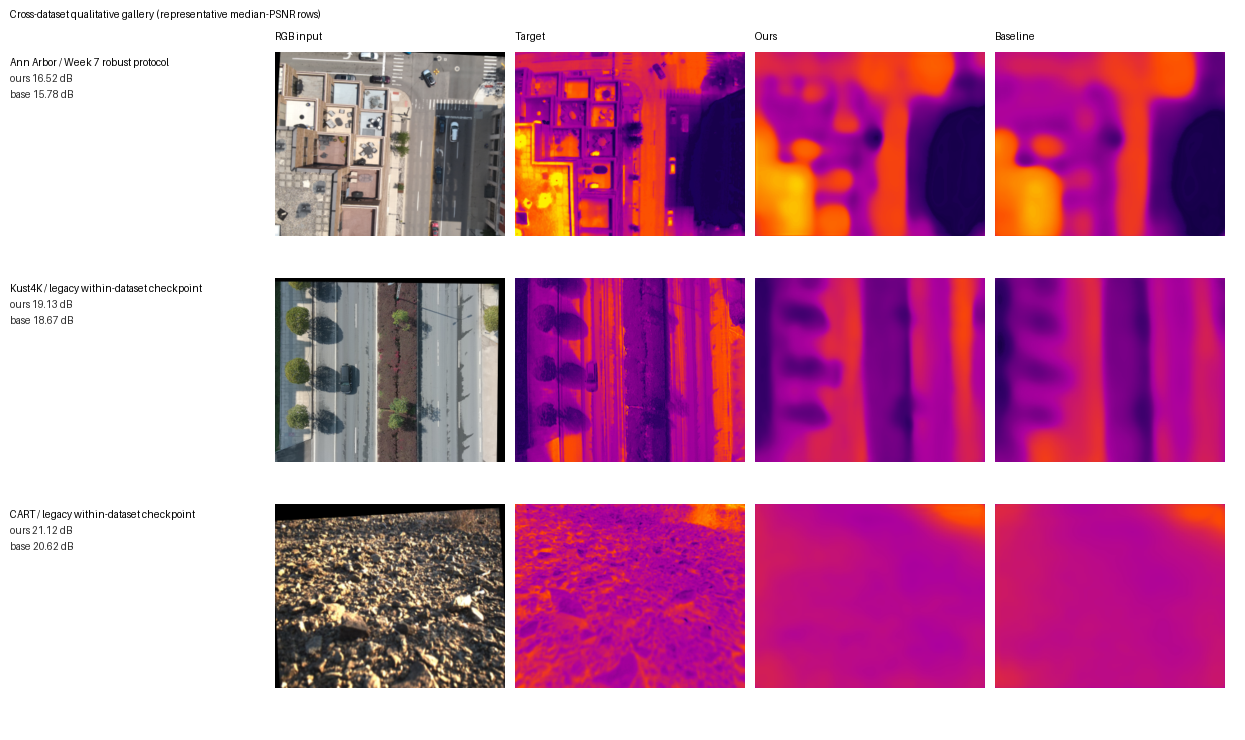
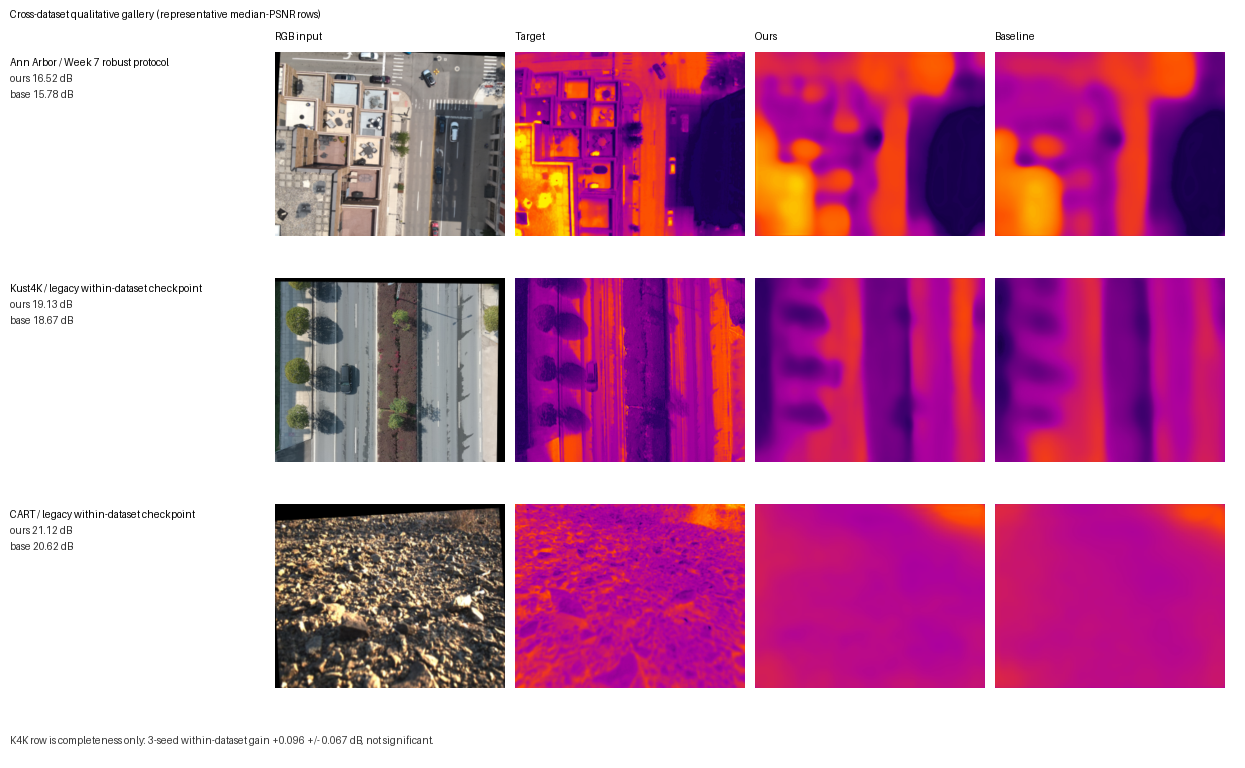
Fix week 8 figure framing and start week 9 draft

diff --git a/week8_make_final_figures.py b/week8_make_final_figures.py
@@ -185,13 +185,39 @@ def score_dataset(
     return rows
 
 
[email redacted]_grad()
+def score_paired_delta(
+    ours_model: torch.nn.Module,
+    base_model: torch.nn.Module,
+    ds,
+    device: torch.device,
+    res: int,
+    max_items: int,
+) -> list[dict]:
+    limit = min(len(ds), max_items or len(ds))
+    rows = []
+    for idx in range(limit):
+        ours = predict_one(ours_model, ds, idx, device, res)
+        base = predict_one(base_model, ds, idx, device, res)
+        rows.append(
+            {
+                "idx": idx,
+                "name": ours["name"],
+                "ours_psnr": ours["psnr"],
+                "base_psnr": base["psnr"],
+                "delta_psnr": ours["psnr"] - base["psnr"],
+            }
+        )
+    return rows
+
+
 def choose_median_psnr(scored: list[dict]) -> int:
     scored = sorted(scored, key=lambda r: r["psnr"])
     return int(scored[len(scored) // 2]["idx"])
 
 
-def choose_failure_indices(scored: list[dict], n: int) -> list[int]:
-    return [int(r["idx"]) for r in sorted(scored, key=lambda r: r["psnr"])[:n]]
+def choose_failure_indices(scored_delta: list[dict], n: int) -> list[int]:
+    return [int(r["idx"]) for r in sorted(scored_delta, key=lambda r: r["delta_psnr"])[:n]]
 
 
 def draw_labeled_grid(
@@ -202,13 +228,19 @@ def draw_labeled_grid(
     row_labels: list[str],
     tile_w: int,
     left_w: int = 210,
+    footnote: str | None = None,
 ) -> None:
     h, w = rows[0]["target"].shape
     tile_h = max(1, round(tile_w * h / w))
     pad = 10
     header_h = 52
     row_h = tile_h + 42
-    canvas = Image.new("RGB", (left_w + len(columns) * (tile_w + pad) + pad, header_h + len(rows) * row_h + pad), "white")
+    foot_h = 28 if footnote else 0
+    canvas = Image.new(
+        "RGB",
+        (left_w + len(columns) * (tile_w + pad) + pad, header_h + len(rows) * row_h + pad + foot_h),
+        "white",
+    )
     draw = ImageDraw.Draw(canvas)
     draw.text((pad, 8), title, fill=(0, 0, 0))
     for col, (label, _key) in enumerate(columns):
@@ -221,6 +253,8 @@ def draw_labeled_grid(
             draw.text((pad, y + 36), f"base {row['baseline_psnr']:.2f} dB", fill=(45, 45, 45))
         for col, (_label, key) in enumerate(columns):
             paste_fit(canvas, row[key], (left_w + col * (tile_w + pad), y, left_w + col * (tile_w + pad) + tile_w, y + tile_h))
+    if footnote:
+        draw.text((pad, header_h + len(rows) * row_h + 4), footnote, fill=(55, 55, 55))
     save_canvas(canvas, path)
 
 
@@ -327,21 +361,23 @@ def main() -> None:
         args.tile_width,
     )
 
-    scored_aa = score_dataset(aa_ours, aa_ds, device, args.res, args.max_score_items)
-    failure_indices = choose_failure_indices(scored_aa, 2)
+    scored_aa_delta = score_paired_delta(aa_ours, aa_base, aa_ds, device, args.res, args.max_score_items)
+    failure_indices = choose_failure_indices(scored_aa_delta, 2)
     failure_rows = []
     failure_labels = []
     for idx in failure_indices:
         ours = predict_one(aa_ours, aa_ds, idx, device, args.res)
         base = predict_one(aa_base, aa_ds, idx, device, args.res)
         row = {**ours, **row_images(ours), "baseline_img": Image.fromarray(colorize_scalar(base["pred"])), "baseline_psnr": base["psnr"]}
+        delta = ours["psnr"] - base["psnr"]
+        row["ours_delta_psnr"] = delta
         failure_rows.append(row)
-        failure_labels.append(f"{ours['name']} / low PSNR")
-        metrics.append(metric_record("failure", "ann_arbor", "ours", 0.3, ours, "selected among two lowest validation PSNR rows"))
+        failure_labels.append(f"{ours['name']} / delta {delta:+.2f} dB")
+        metrics.append(metric_record("failure", "ann_arbor", "ours", 0.3, ours, "selected by most negative paired PSNR delta"))
         metrics.append(metric_record("failure", "ann_arbor", "baseline", 0.3, base, "same sample"))
     draw_labeled_grid(
         out_dir / "failure_cases_ann_arbor_seed42.png",
-        "Failure cases: lowest Ann Arbor validation PSNR rows",
+        "Failure cases: Ann Arbor rows where ours underperforms baseline most",
         failure_rows,
         [
             ("RGB input", "rgb_img"),
@@ -421,6 +457,7 @@ def main() -> None:
         cross_labels,
         args.tile_width,
         left_w=275,
+        footnote="K4K row is completeness only: 3-seed within-dataset gain +0.096 +/- 0.067 dB, not significant.",
     )
 
     write_metrics(out_dir / "week8_final_figure_metrics.csv", metrics)

diff --git a/WEEK9_DRAFT_SCAFFOLD.md b/WEEK9_DRAFT_SCAFFOLD.md
@@ -1,0 +1,149 @@
+# Week 9 Paper Draft Scaffold
+
+This is the starting scaffold for draft 1. It intentionally narrows the paper
+around claims that survived the Week 7/8 audits.
+
+## Working Title
+
+Synthetic Warp Supervision for Robust Aerial RGB-to-Thermal Translation
+
+## Core Claim
+
+A lightweight RGB-only affine registration head, trained with synthetic
+warp-recovery supervision, gives a small but repeatable robustness gain for
+aerial RGB-to-thermal translation under controlled synthetic misalignment.
+
+This is not a general unsupervised-registration claim and not a broad
+cross-dataset generalization claim.
+
+## Abstract Skeleton
+
+RGB-to-thermal translation from aerial imagery is sensitive to camera alignment,
+target representation, and dataset conventions. We study this sensitivity on an
+Ann Arbor UAV RGB/thermal dataset and two external RGB-TIR datasets, Kust4K and
+CART. Starting from a ConvNeXt-tiny U-Net translator, we add a lightweight
+RGB-only affine registration head trained with synthetic warp-recovery
+supervision. After ablations, the strongest variant decouples uncertainty from
+the reconstruction loss and treats uncertainty maps as diagnostics. On Ann
+Arbor under amplified synthetic misalignment, the method improves over a matched
+no-registration ConvNeXt baseline by `+0.571 +/- 0.157 dB` across three seeds
+and outperforms a Swin-T U-Net baseline by `+0.215 +/- 0.113 dB`. External
+results are mixed: Kust4K shows no statistically meaningful within-dataset gain,
+while CART gains are sensitive to loss balance. These findings support a
+conservative conclusion: synthetic warp supervision can improve robustness on
+the source dataset, but target normalization and dataset-specific alignment
+limit cross-dataset claims.
+
+## Contributions
+
+1. A reproducible multi-dataset evaluation harness for aerial RGB-to-thermal
+   translation with Ann Arbor, Kust4K, and CART.
+2. A synthetic misalignment diagnostic showing that Ann Arbor is alignment
+   sensitive while Kust4K/CART are weaker and target-representation-confounded.
+3. A lightweight input-space affine registration module with direct RGB
+   warp-recovery supervision.
+4. A controlled ablation showing that uncertainty-weighted reconstruction hurts
+   in this protocol, while uncertainty-decoupled affine registration gives a
+   repeatable but modest gain.
+5. Qualitative figures showing both useful behavior and failure modes, including
+   cases where the method underperforms the no-registration baseline.
+
+## Section Plan
+
+### 1. Introduction
+
+- Motivate aerial RGB-to-thermal translation for urban heat, infrastructure, and
+  UAV sensing.
+- State the practical issue: RGB/TIR pairs are often imperfectly aligned, and
+  naive translation models can either ignore RGB detail or overfit dataset
+  target conventions.
+- Frame the paper as an empirical + method study, not as a universal
+  registration solution.
+- End with the conservative contributions above.
+
+### 2. Related Work
+
+- Paired RGB-to-thermal / RGB-TIR translation.
+- Aerial and UAV multimodal datasets.
+- Cross-modal registration and spatial transformer-style alignment.
+- Uncertainty in image translation, with care to note that our uncertainty
+  branch is diagnostic after ablation.
+
+### 3. Datasets and Target Representation
+
+- Ann Arbor: local registered RGB/scalar thermal target.
+- Kust4K: official splits, broken-sample exclusions, qualitative-only caution
+  for registration benefit.
+- CART/Caltech: labeled paired subset, target normalization caveat.
+- Explain `raw`, `robust`, and `histmatch`; justify robust for the locked Week
+  5-8 protocol.
+
+### 4. Method
+
+- Baseline: ConvNeXt-tiny + U-Net translator.
+- Synthetic misalignment generation: translation/rotation/scale, thermal target
+  stays fixed.
+- Registration module: RGB-only affine predictor, input-space warp, identity
+  initialization.
+- Training losses: reconstruction, SSIM, edge, affine regularizer, RGB
+  warp-recovery supervision.
+- Final design choice: uncertainty maps are generated/logged but not used to
+  weight reconstruction in the primary model.
+
+### 5. Experiments
+
+- Week 2/2.5 diagnostics: why the initial no-go was not trusted; Ann Arbor
+  control establishes alignment sensitivity.
+- Week 4/5 registration controls: supervised warp signal is necessary; external
+  results are limited.
+- Week 6/7 baselines and ablations: ConvNeXt no-reg, Swin-T no-reg, Swin-T
+  affine, uncertainty on/off, loss ablations, severity diagnostics.
+- Week 8 qualitative figures: hero, multi-sigma recovery, failure cases,
+  cross-dataset qualitative context.
+
+### 6. Discussion and Limitations
+
+- Gain is real but modest.
+- Synthetic warp supervision is not real-world registration ground truth.
+- Kust4K does not support a positive registration-benefit claim across seeds.
+- CART gains are partly loss-balance-sensitive.
+- Qualitative figures show smoothing of high-frequency thermal structure.
+- Uncertainty maps are not calibrated enough to drive reconstruction weighting.
+
+## Figure and Table Map
+
+| Slot | Artifact | Status |
+|---|---|---|
+| Figure 1 | Hero Ann Arbor scene | `figures/week8/hero_ann_arbor_seed42.png` |
+| Figure 2 | Method diagram | TODO in Week 9/11 |
+| Figure 3 | Multi-sigma recovery | `figures/week8/misalignment_recovery_multisigma_seed42.png` |
+| Figure 4 | Failure cases | `figures/week8/failure_cases_ann_arbor_seed42.png` |
+| Appendix Fig. A | Candidate grid | `figures/week8/ann_arbor_candidate_grid_seed42.png` |
+| Appendix Fig. B | Cross-dataset qualitative gallery | `figures/week8/cross_dataset_gallery_seed42.png` |
+| Table 1 | Dataset counts and normalization | TODO |
+| Table 2 | Baselines: ConvNeXt, Swin-T, pix2pix, CycleGAN | use Week 6/7 CSVs |
+| Table 3 | Main ablation: no-reg vs affine + uncertainty vs uncertainty-decoupled affine | use Week 7 CSV |
+| Table 4 | External/cross-dataset results | use Week 5, with Kust4K caveat |
+
+## Claim Guardrails
+
+- Do not claim Kust4K registration benefit. The three-seed within-dataset gain
+  is `+0.096 +/- 0.067 dB`, consistent with no effect.
+- Do not claim the hero `+0.93 dB` is typical. The main method gain is
+  `+0.571 +/- 0.157 dB` across three seeds.
+- Do not describe the final method as deterministic. Use
+  "uncertainty-decoupled" or "unweighted-L1 primary variant."
+- Do not claim uncertainty helps reconstruction. It hurt in the locked
+  protocol and should be described as diagnostic only.
+- Do not report the cross-dataset gallery as a unified quantitative protocol.
+  It mixes the locked Ann Arbor checkpoint with older within-dataset external
+  checkpoints.
+- Do not use the single-seed severity curve as a main statistical claim.
+
+## Immediate Week 9 Tasks
+
+- Convert this scaffold into a full prose draft.
+- Build the dataset-count and main-ablation tables from committed CSVs.
+- Draft figure captions with the guardrails above.
+- Create a simple method diagram.
+- Run a no-overclaiming pass on the abstract before sending to collaborators.

diff --git a/WEEK8_QUALITATIVE_RESULT.md b/WEEK8_QUALITATIVE_RESULT.md
@@ -13,7 +13,7 @@ figures are committed under `figures/week8/` and all PNGs were regenerated with
 | Hero candidate | `figures/week8/hero_ann_arbor_seed42.png` | Single scene with road, trees, building edge, hot roof, prediction, uncertainty, and error. |
 | Multi-sigma recovery | `figures/week8/misalignment_recovery_multisigma_seed42.png` | Same Ann Arbor scene at sigma 0.0, 0.2, and 0.5 with baseline vs ours. |
 | Cross-dataset gallery | `figures/week8/cross_dataset_gallery_seed42.png` | Ann Arbor, Kust4K, and CART representative rows with target, ours, and baseline. |
-| Failure cases | `figures/week8/failure_cases_ann_arbor_seed42.png` | Two lowest-PSNR Ann Arbor validation samples. |
+| Failure cases | `figures/week8/failure_cases_ann_arbor_seed42.png` | Ann Arbor samples where ours underperforms the no-registration baseline most. |
 
 Metrics for the final figures are in
 `figures/week8/week8_final_figure_metrics.csv`.
@@ -23,16 +23,24 @@ Metrics for the final figures are in
 - The hero scene is a reasonable paper candidate: ours improves over
   ConvNeXt no-registration on that sample (`16.94 dB` vs `16.01 dB`) and shows
   both useful structure and clear smoothing failure.
+- Paper-draft guardrail: the hero's `+0.93 dB` gain is an illustrative upper
+  tail example, not the typical effect size. Captions must point readers to the
+  three-seed mean gain (`+0.571 +/- 0.157 dB`) and avoid implying a `~1 dB`
+  average improvement.
 - The multi-sigma recovery figure is honest. On the selected scene, ours helps
   at sigma `0.0` and `0.2`, but not at sigma `0.5` (`13.84 dB` ours vs
   `13.96 dB` baseline). Do not use this as a monotonic success figure.
-- The failure cases show the dominant visual limitation: the model smooths
-  high-frequency thermal detail around roofs, vehicles, and hard building
-  edges. The uncertainty maps do not fully localize those errors.
+- The failure cases now target method-specific underperformance: samples where
+  ours has the most negative paired PSNR delta relative to the no-registration
+  baseline. This is distinct from the earlier "hard scenes for both models"
+  selection.
 - The cross-dataset gallery should be framed as qualitative context only.
   Ann Arbor uses the locked Week 7 robust uncertainty-decoupled protocol, while
   Kust4K and CART rows use older within-dataset external checkpoints. They are
   not a unified quantitative cross-dataset protocol.
+- The Kust4K row has an in-figure warning because the three-seed Kust4K gain is
+  not significant (`+0.096 +/- 0.067 dB`). Do not use the single-sample visual
+  win as evidence that registration helps on Kust4K.
 
 ## Figure Scripts
 

diff --git a/PLAN.md b/PLAN.md
@@ -255,12 +255,16 @@ Submit primarily to **WACV 2027 R2 (Aug 28, 2026), Algorithms track** only if We
 
 ### Week 9 — Paper writing draft 1
 **Goal:** full draft submitted to ourselves and Prof. Siwo.
-- [ ] Outline → section sketches → first full draft.
+- [x] Outline → section sketches.
+- [ ] First full draft.
 - [ ] Sections: Abstract, Intro, Related Work (RGB-T translation, cross-modal registration, uncertainty in translation), Method, Experiments, Discussion, Limitations, Conclusion.
 - [ ] Internal review by Adithya + Santosh (each marks every paragraph: clear / unclear / wrong).
 - [ ] Send to Prof. Siwo by end of week, ask for top-level feedback on framing, not line edits.
-- **Result:**
-- **Blocker:**
+- **Result:** Week 9 started with `WEEK9_DRAFT_SCAFFOLD.md`: working title,
+  abstract skeleton, contribution list, section plan, figure/table map, and
+  claim guardrails.
+- **Blocker:** Full prose draft, method diagram, tables, and internal review are
+  still pending. Keep the Week 8 guardrails in every caption and claim.
 
 ### Week 10 — CCAI workshop submission
 **Goal:** lock the workshop paper. Don't let it eat the WACV polish.